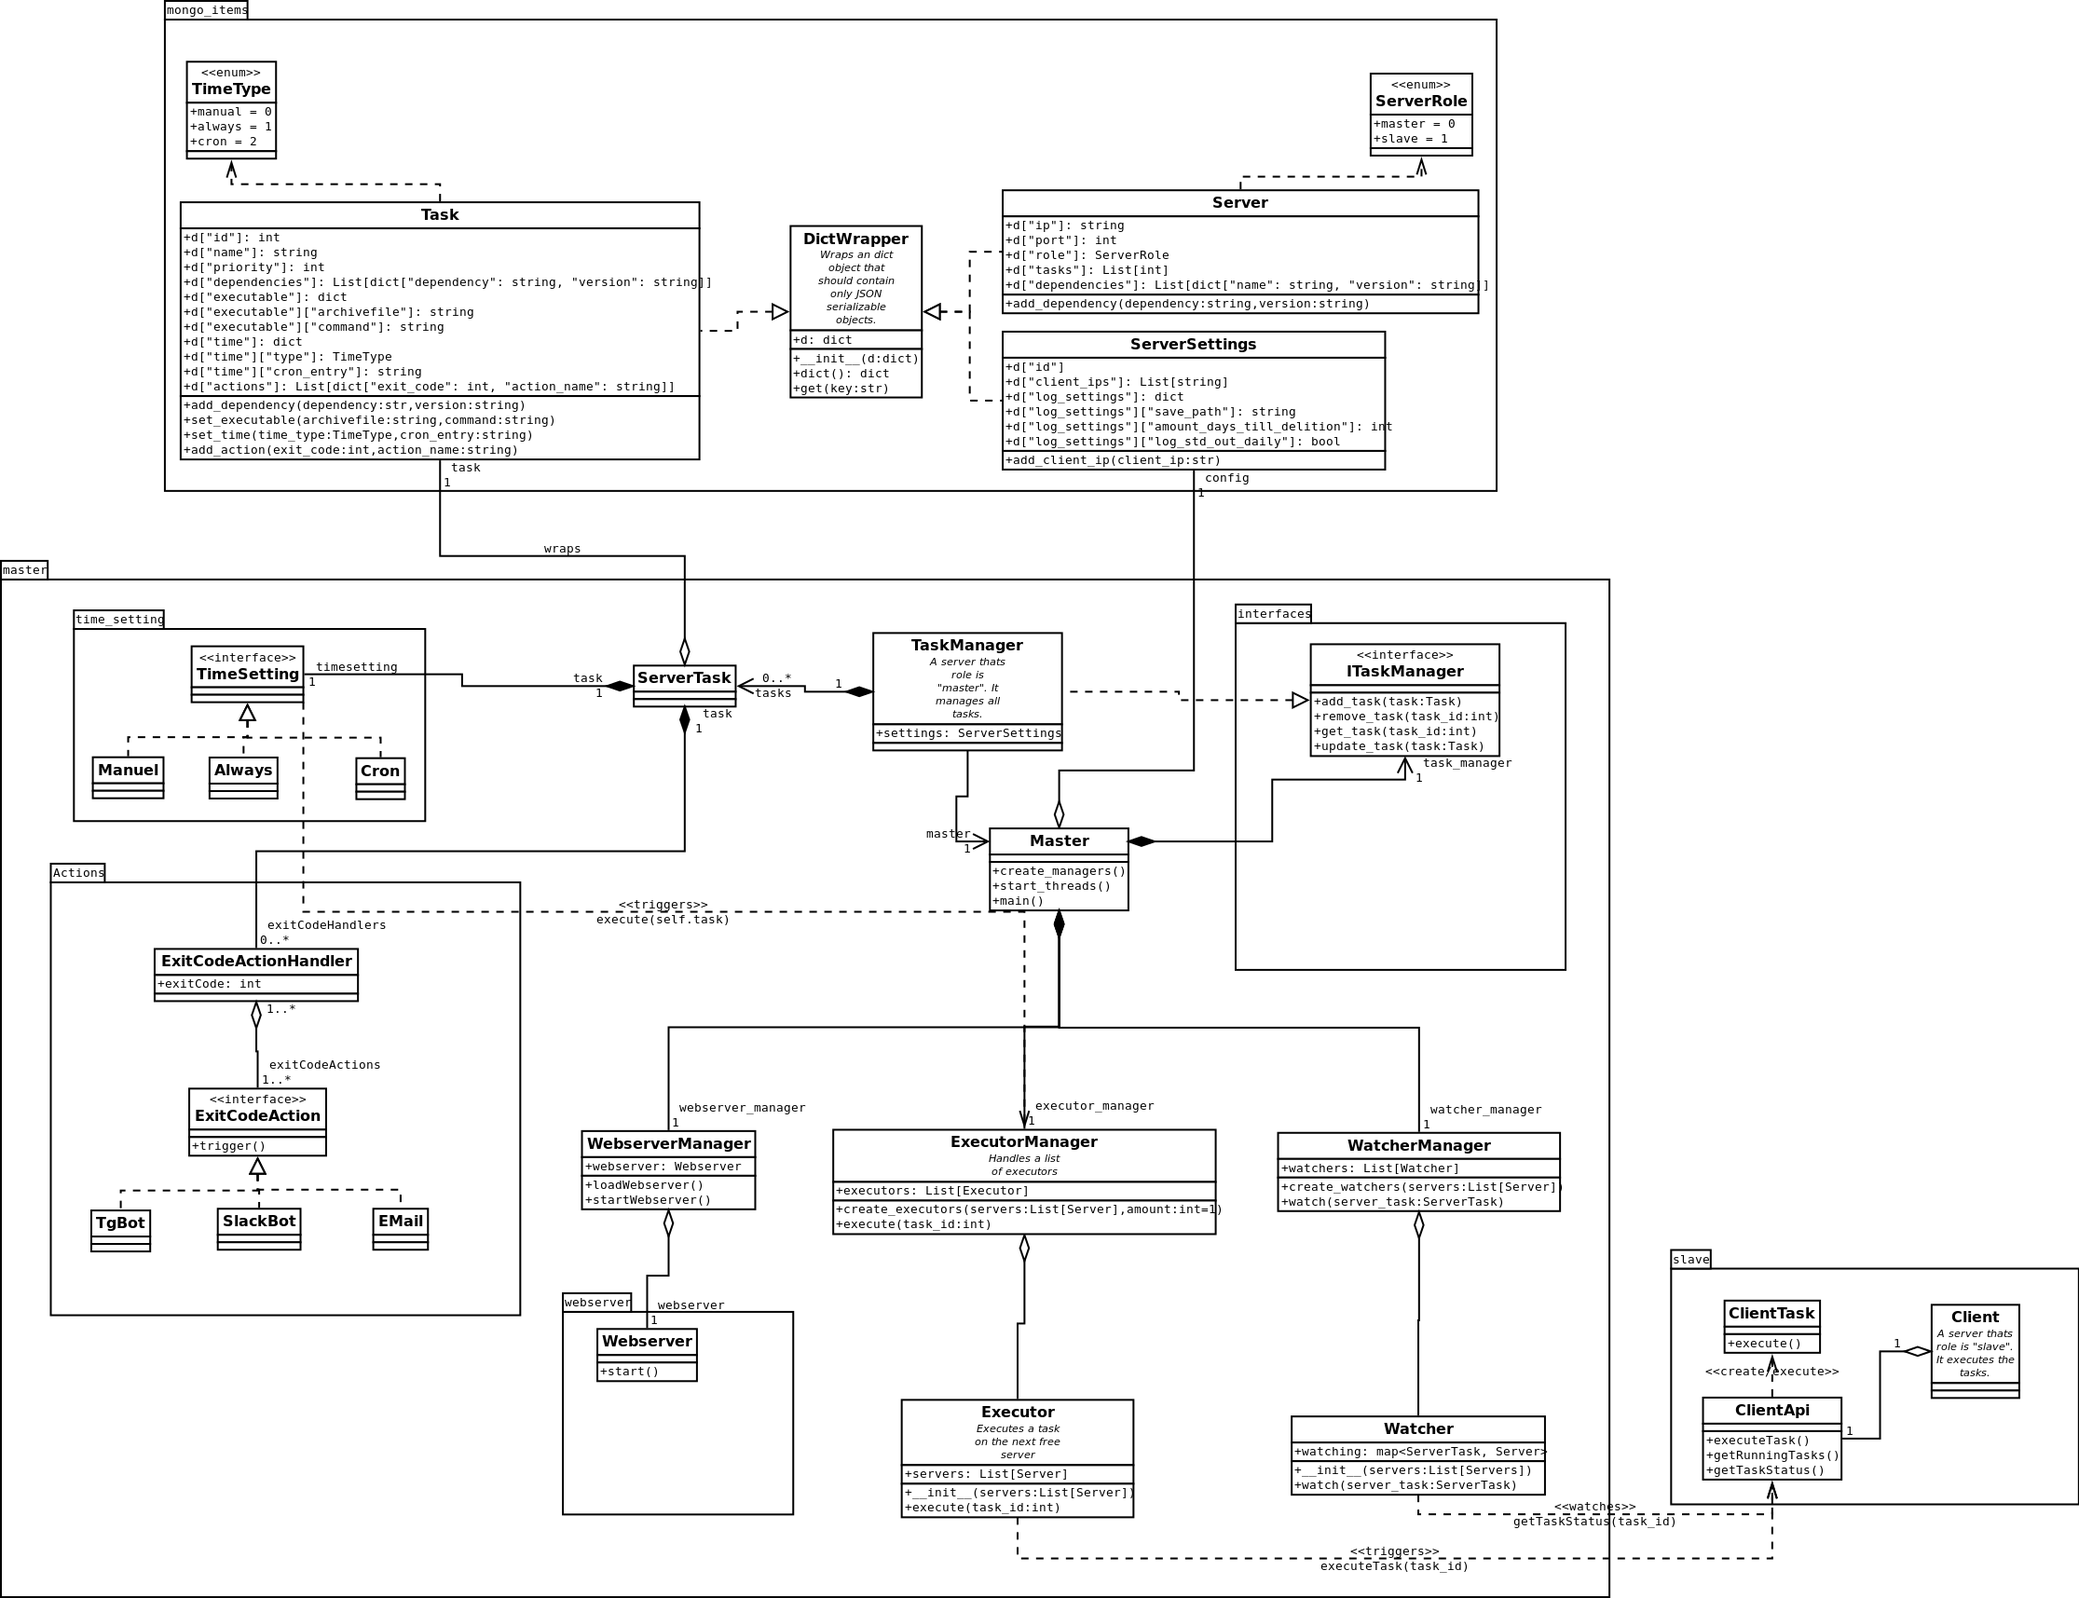
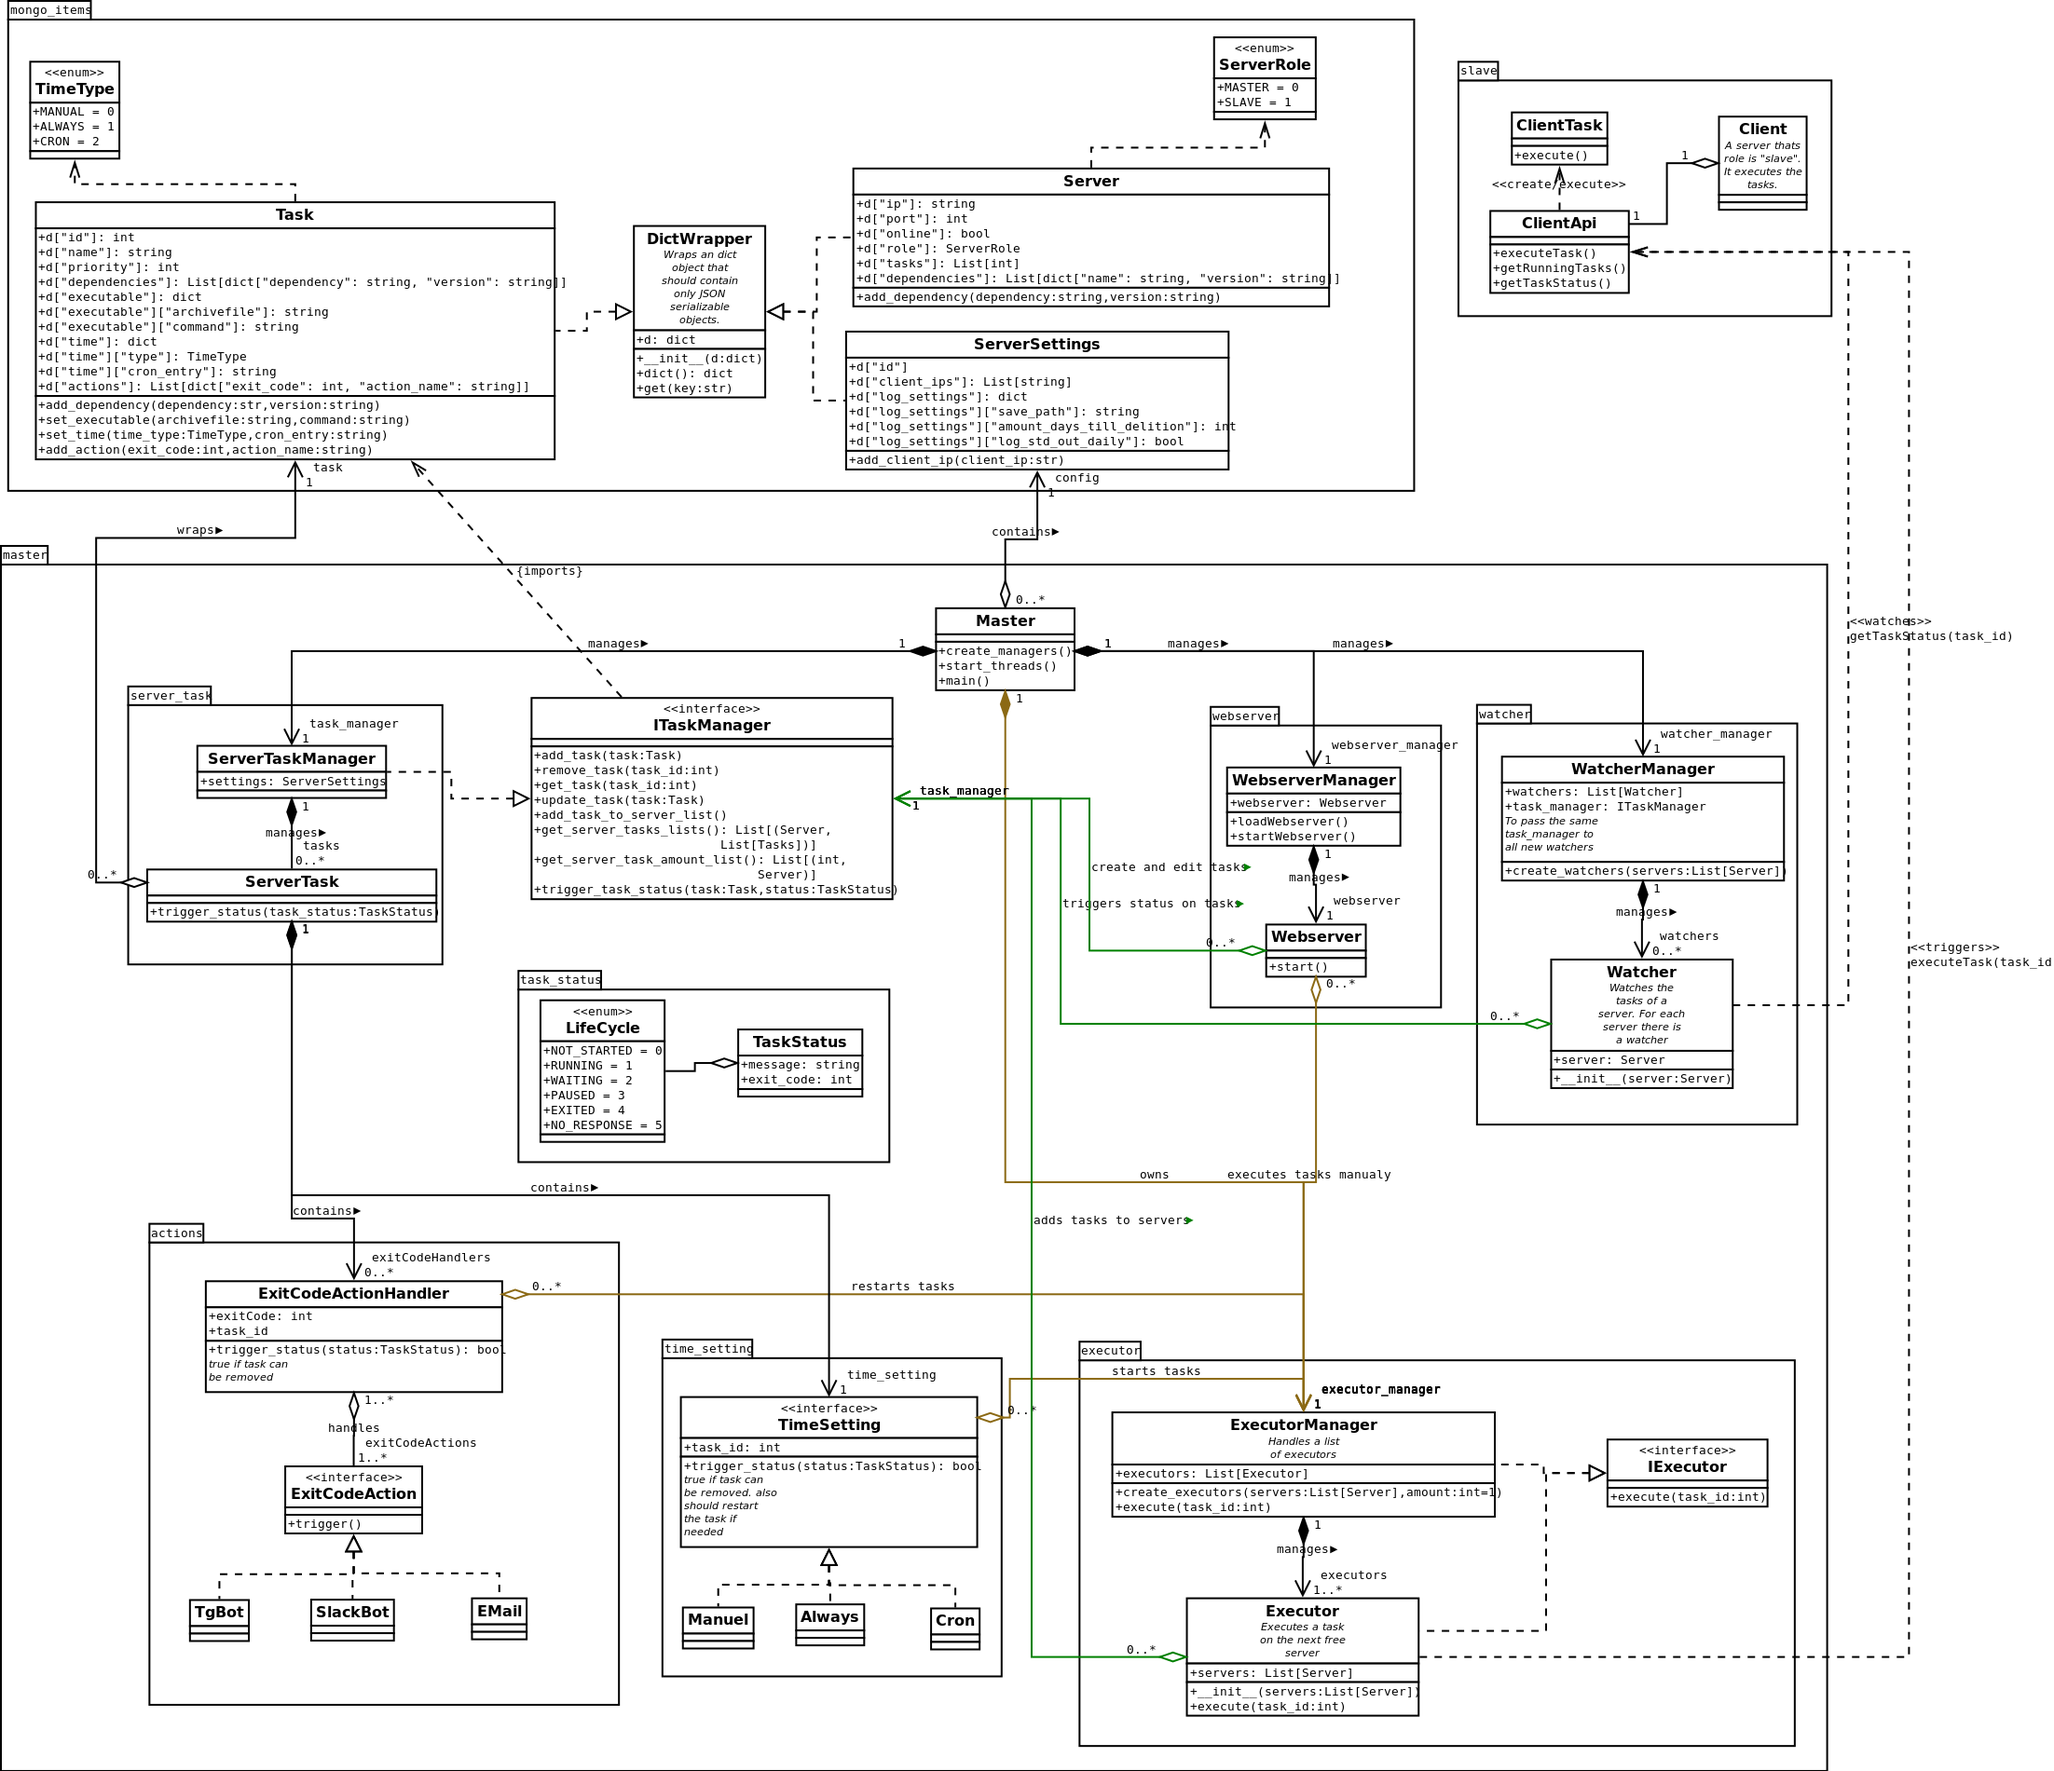
added online attr to server, uppercased enum names and changed uml extremly

diff --git a/src/mongo_items.py b/src/mongo_items.py
@@ -7,24 +7,24 @@ class TimeType(IntEnum):
     """
     TimeType Enum
 
-    :manual: A Task is only executed manually
-    :always: A Task will be restarted after exiting
-    :cron: A Task will be started with a crontab entry
+    :MANUAL: A Task is only executed manually
+    :ALWAYS: A Task will be restarted after exiting
+    :CRON: A Task will be started with a crontab entry
     """
-    manual = 0
-    always = 1
-    cron = 2
+    MANUAL = 0
+    ALWAYS = 1
+    CRON = 2
 
 
 class ServerRole(IntEnum):
     """
     ServerRole Enum
 
-    :master: The master distributes the Tasks to the slaves
-    :slave: The slave executes the tasks
+    :MASTER: The master distributes the Tasks to the slaves
+    :SLAVE: The slave executes the tasks
     """
-    master = 0
-    slave = 1
+    MASTER = 0
+    SLAVE = 1
 
 
 class DictWrapper(object):
@@ -116,7 +116,7 @@ class Task(DictWrapper):
                 e_command = str(d["executable"]["command"])
         executable = {"archivefile": e_archivefile, "command": e_command}
         # time
-        t_time_type = TimeType.manual
+        t_time_type = TimeType.MANUAL
         t_cron_entry = ""
         if "time" in d.keys():
             # time type
@@ -197,21 +197,28 @@ class Server(DictWrapper):
         :d dict:
         :d["ip"] str: ip of the server
         :d["port"] int: port of the service
+        :d["online"] bool: if the server is online
         :d["role"] int: role is the integer value of ServerRole
         :d["task"] List[int]: list of task ids that are executed currently on this server
         :d["dependencies"] List[dict["dependency": str, "version": str]]: list of dependencies
         """
         # ip
         ip = str(d["ip"])
+        # port
         if "port" in d.keys():
             port = d["port"]
         else:
             port = 5000
+        # online
+        if "online" in d.keys():
+            online = d["online"]
+        else:
+            online = True
         # role
         if "role" in d.keys():
             role = ServerRole(d["role"])
         else:
-            role = ServerRole.slave
+            role = ServerRole.SLAVE
         # tasks
         tasks = []
         if "tasks" in d.keys():
@@ -233,7 +240,7 @@ class Server(DictWrapper):
                     version = ""
                 # append dependency
                 dependencies.append({"dependency": dependency_name, "version": version})
-        n = {"ip": ip, "port": port, "role": role, "tasks": tasks, "dependencies": dependencies}
+        n = {"ip": ip, "port": port, "online": online, "role": role, "tasks": tasks, "dependencies": dependencies}
         super(Server, self).__init__(n)
 
     def add_dependency(self, dependency: str, version: str):
@@ -332,7 +339,7 @@ def load_server_settings():
 
 
 def load_servers():
-    s = '[{"ip": "127.0.0.1", "role": "master", "tasks": []}]'
+    s = '[{"ip": "127.0.0.1", "role": "MASTER", "tasks": []}]'
     servers_j = json.loads(s)
     servers = []
     for server_j in servers_j:
@@ -358,13 +365,13 @@ def get_test_servers(amount: int=2) -> List[Server]:
     servers = []
     d_server = dict()
     d_server["ip"] = "127.0.0." + str(1)
-    d_server["role"] = int(ServerRole.master)
+    d_server["role"] = int(ServerRole.MASTER)
     server = Server(d_server)
     servers.append(server)
     for i in range(2, amount+1):
         d_server = dict()
         d_server["ip"] = "127.0.0." + str(i)
-        d_server["role"] = int(ServerRole.slave)
+        d_server["role"] = int(ServerRole.SLAVE)
         server = Server(d_server)
         servers.append(server)
     return servers

diff --git a/src/master/executor.py b/src/master/executor.py
@@ -30,10 +30,10 @@ class Executor(IExecutor):
         sorted_servers = sorted(self.servers, key=lambda server: len(server.get("tasks")))
         # try executing until it's executed
         executed = False
+        server = None
         for i_server in sorted_servers:
             if i_server.get("role") == ServerRole.slave:
                 server = i_server
-                server.get("tasks").append(task_id)
                 route = "/execute/" + str(task_id)
                 url = get_url(server.get("ip"), route, server.get("port"))
                 response = my_curl.GET(url)
@@ -42,9 +42,12 @@ class Executor(IExecutor):
                     executed = True
                 else:
                     print("not working")
-                    server.tasks.remove(task_id)
             if executed:
                 break
+        if not executed:
+            server = None
+        else:
+            server.get("tasks").append(task_id)
         self.blocked = False
         out = (executed, server)
         return out

diff --git a/src/master/master.py b/src/master/master.py
@@ -3,12 +3,13 @@
 from mongo_items import load_servers
 from mongo_items import load_server_settings
 # module imports
+from .interfaces import IExecutor
 from .manager import ExecutorManager
 from .manager import TaskManager
 from .manager import WebserverManager
 
 
-class Master(ExecutorManager):
+class Master(object):
     """
     Manages the server.
 

diff --git a/src/master/interfaces.py b/src/master/interfaces.py
@@ -25,5 +25,5 @@ class ITaskManager(object):
 
 
 class IExecutor(object):
-    def execute(task_id: int=None):
+    def execute(task_id: int):
         raise NotImplemented
